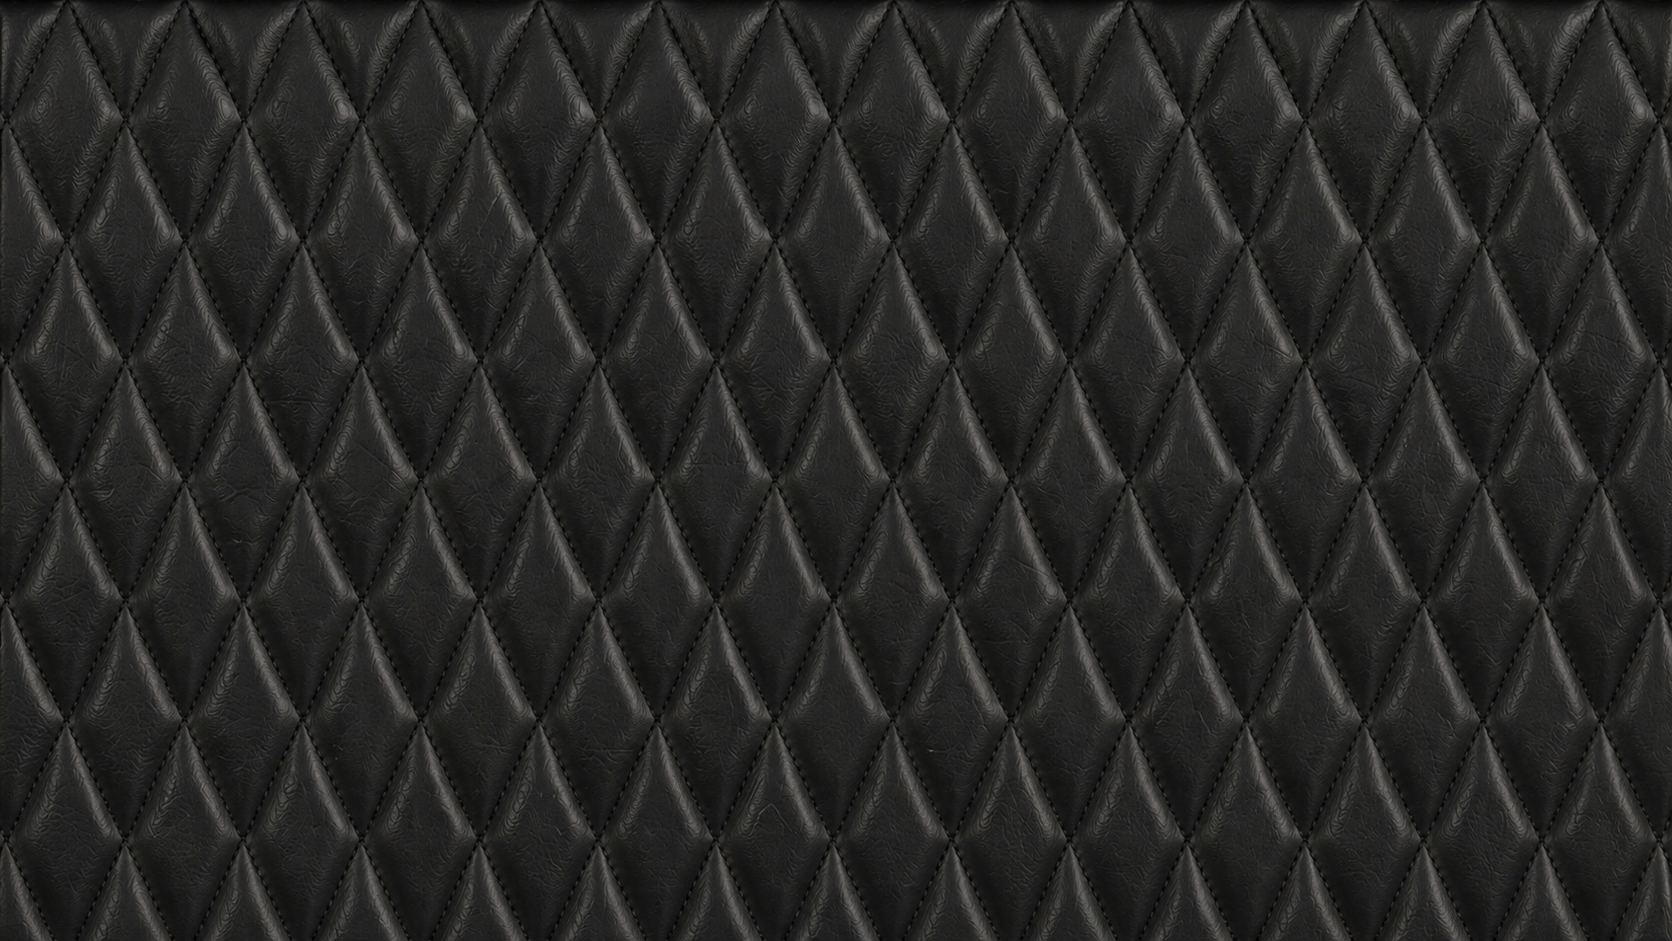
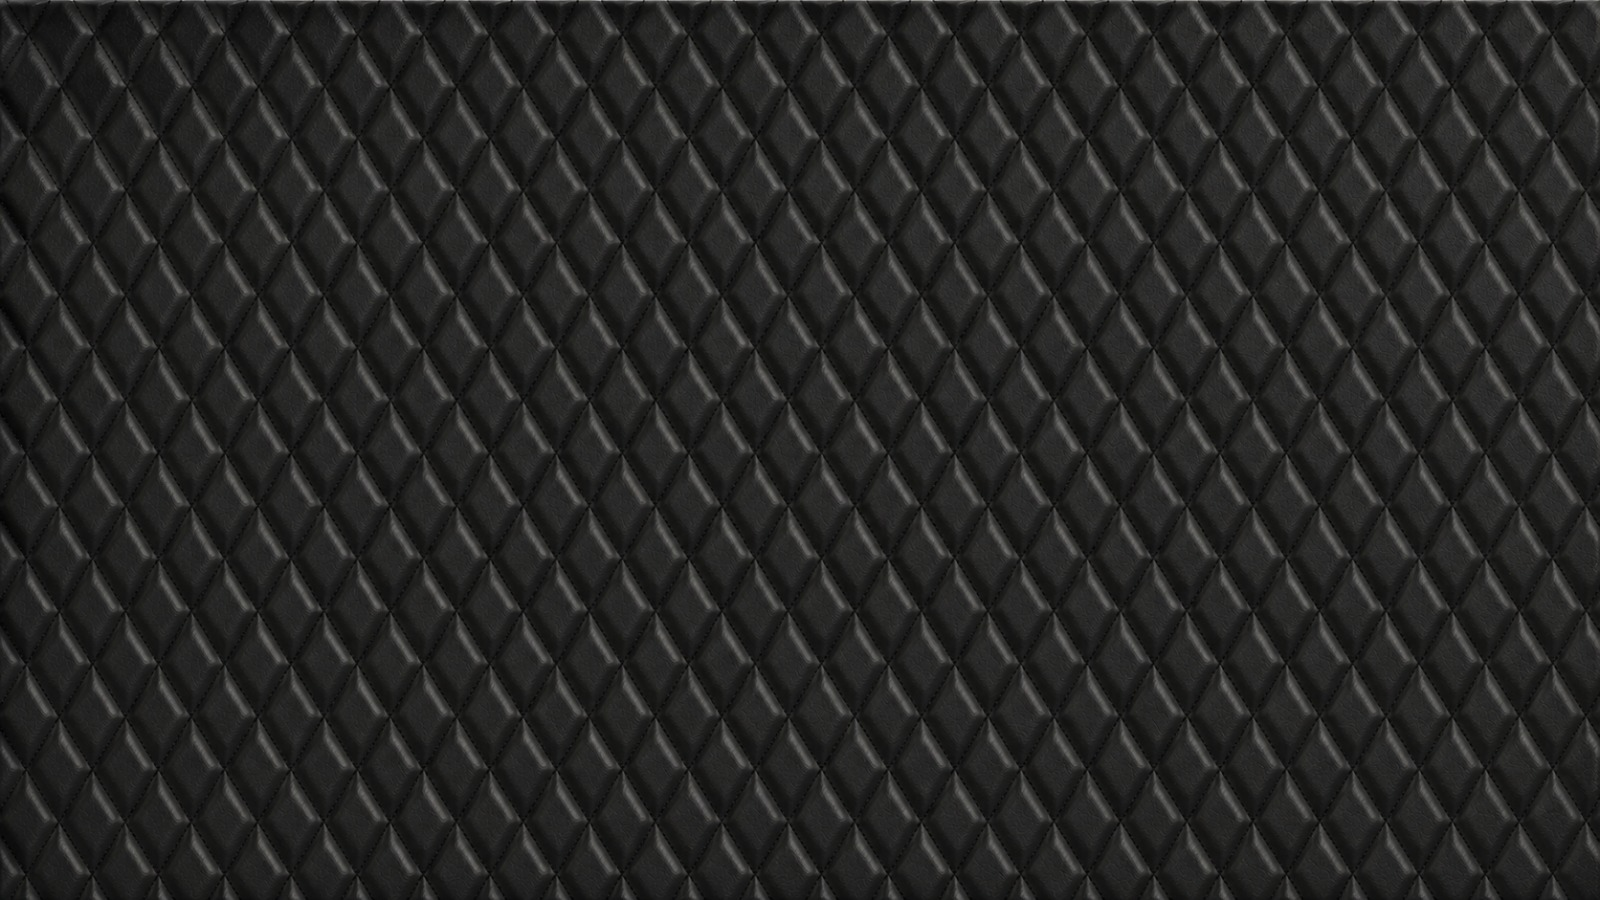
Add files via upload

Changed region(s): [[0.0, 0.0, 1.0, 1.0]]

diff --git a/style.css b/style.css
@@ -1,6 +1,7 @@
 /* ============================================
    SUBE CANAL — sistema de diseño
-   Tipografía: Anton (títulos y cuerpo, única familia del sitio)
+   Tipografía: Anton (títulos) + Roboto (cuerpo, con pesos
+   400/500/700 para generar contraste y mejorar legibilidad)
    Paleta: negro cuero #0b0b0b, verde lima #c1ff00, blanco #f5f5f0
    Concepto: el pasaje de transporte / boleto como
    metáfora de pertenecer a la comunidad de Sube Canal.
@@ -13,6 +14,7 @@
   font-style: normal;
   font-display: swap;
 }
+@import url('https://fonts.googleapis.com/css2?family=Roboto:wght@400;500;700&display=swap');
 
 :root{
   --black: #0b0b0b;
@@ -28,7 +30,7 @@
   --ticket-notch: 22px;
   --max: 1160px;
   --ff-display: 'Anton', sans-serif;
-  --ff-body: 'Anton', sans-serif;
+  --ff-body: 'Roboto', sans-serif;
 }
 
 *{ box-sizing: border-box; min-width: 0; }
@@ -89,7 +91,7 @@ a{ color: inherit; text-decoration: none; }
 
 .eyebrow{
   font-family: var(--ff-body);
-  font-weight: 400;
+  font-weight: 700;
   text-transform: uppercase;
   letter-spacing: 0.16em;
   font-size: 0.75rem;
@@ -126,7 +128,7 @@ a:focus-visible, button:focus-visible{
   display:flex;
   align-items:center;
   gap: 32px;
-  font-weight: 400;
+  font-weight: 500;
   font-size: 0.92rem;
 }
 .nav-links a{ opacity: 0.85; transition: opacity .2s, color .2s; }
@@ -206,7 +208,7 @@ a:focus-visible, button:focus-visible{
   gap: 8px;
   padding: 15px 28px;
   border-radius: 999px;
-  font-weight: 400;
+  font-weight: 700;
   font-size: 0.95rem;
   text-transform: uppercase;
   letter-spacing: 0.02em;
@@ -260,7 +262,7 @@ a:focus-visible, button:focus-visible{
   border-top: 2px dashed var(--card-border);
   margin: 20px 0;
 }
-.ticket-label{ font-size: 0.66rem; text-transform: uppercase; letter-spacing: 0.1em; color: var(--grey-dim); font-weight: 400; }
+.ticket-label{ font-size: 0.66rem; text-transform: uppercase; letter-spacing: 0.1em; color: var(--grey-dim); font-weight: 700; }
 .ticket-value{
   font-family: var(--ff-display);
   font-weight: 400;
@@ -323,7 +325,7 @@ section{ padding: 88px 0; }
 .benefit-top{ display:flex; align-items:center; gap: 14px; }
 .benefit-logo{
   width: 68px; height: 68px;
-  border-radius: 14px;
+  border-radius: 50%;
   background: var(--black-soft);
   overflow:hidden;
   flex-shrink:0;
@@ -338,7 +340,7 @@ section{ padding: 88px 0; }
   font-size: 1.5rem;
 }
 .benefit-name{ font-family: var(--ff-display); font-weight: 400; font-size: 1.05rem; text-transform: none; }
-.benefit-cat{ color: var(--grey-dim); font-size: 0.78rem; text-transform: uppercase; letter-spacing: 0.06em; margin-top: 2px; }
+.benefit-cat{ color: var(--grey-dim); font-size: 0.78rem; font-weight: 500; text-transform: uppercase; letter-spacing: 0.06em; margin-top: 2px; }
 .benefit-perks{ list-style:none; margin:0; padding:0; display:flex; flex-direction:column; gap: 8px; }
 .benefit-perks li{
   font-size: 0.92rem;
@@ -355,7 +357,7 @@ section{ padding: 88px 0; }
   transform: rotate(45deg);
 }
 .benefit-foot{ margin-top: auto; padding-top: 8px; border-top: 1px solid var(--card-border); display:flex; justify-content: space-between; align-items:center; }
-.benefit-ig{ font-size: 0.85rem; font-weight: 400; color: var(--grey); display:flex; align-items:center; gap:6px; transition: color .2s; }
+.benefit-ig{ font-size: 0.85rem; font-weight: 500; color: var(--grey); display:flex; align-items:center; gap:6px; transition: color .2s; }
 .benefit-ig:hover{ color: var(--lime); }
 
 @media (max-width: 980px){
@@ -388,12 +390,12 @@ section{ padding: 88px 0; }
 .plan-tag{
   position:absolute; top:-13px; left: 28px;
   background: var(--lime); color: var(--black);
-  font-size: 0.7rem; font-weight: 400; text-transform: uppercase;
+  font-size: 0.7rem; font-weight: 700; text-transform: uppercase;
   letter-spacing: 0.06em; padding: 5px 12px; border-radius: 999px;
 }
-.plan h3{ font-size: 1.05rem; text-transform: none; color: var(--grey); font-family: var(--ff-body); font-weight: 400; }
+.plan h3{ font-size: 1.05rem; text-transform: none; color: var(--grey); font-family: var(--ff-body); font-weight: 500; }
 .plan .price{ font-family: var(--ff-display); font-size: 2.4rem; margin-top: 14px; color: var(--white); }
-.plan .price span{ font-size: 0.95rem; color: var(--grey-dim); font-family: var(--ff-body); font-weight: 400; text-transform: none; }
+.plan .price span{ font-size: 0.95rem; color: var(--grey-dim); font-family: var(--ff-body); font-weight: 500; text-transform: none; }
 .plan p.desc{ color: var(--grey); margin-top: 12px; font-size: 0.92rem; flex-grow: 1; }
 .plan .btn{ margin-top: 24px; justify-content:center; width: 100%; }
 
@@ -433,7 +435,7 @@ footer .brand img{ height: 20px; opacity: 0.9; }
   align-items:center;
   gap: 8px;
   font-size: 0.85rem;
-  font-weight: 400;
+  font-weight: 500;
   color: var(--grey);
   transition: color .2s;
 }
@@ -484,6 +486,27 @@ footer .brand img{ height: 20px; opacity: 0.9; }
   border: 1px dashed rgba(193,255,0,0.3);
   border-radius: 10px;
   padding: 12px 14px;
+}
+
+.email-help-steps{
+  list-style: none;
+  margin: 0 0 22px;
+  padding: 0;
+  display: grid;
+  grid-template-columns: repeat(2, minmax(0, 1fr));
+  gap: 20px;
+}
+.email-help-steps li{ margin: 0; }
+.email-help-steps p{ margin: 0 0 10px; color: var(--white); font-size: 0.9rem; }
+.email-help-steps strong{ color: var(--lime); }
+.email-help-steps img{
+  width: 100%;
+  border-radius: 12px;
+  border: 1px solid var(--card-border);
+}
+
+@media (max-width: 640px){
+  .email-help-steps{ grid-template-columns: 1fr; }
 }
 
 /* ---------- Secciones "próximamente" ---------- */

diff --git a/index.html b/index.html
@@ -34,7 +34,7 @@
   <section class="hero">
     <div class="wrap">
       <div>
-        <h1>Subite a este <span class="accent">viaje colectivo</span>.</h1>
+        <h1>Subite a este<br><span class="accent">viaje colectivo</span></h1>
         <div class="hero-sub">
           <p>SUBE es un medio de comunicación independiente y autogestivo hecho en La Plata. Creamos contenidos, generamos encuentros y construimos comunidad alrededor de la cultura local.</p>
           <p>La Comunidad de Pasajerxs sostiene SUBE todos los meses. Sumándote, vos también sos parte y accedés a beneficios en una red de espacios amigos.</p>
@@ -304,24 +304,21 @@
           <svg class="chevron" viewBox="0 0 24 24" width="18" height="18" fill="none" stroke="currentColor" stroke-width="2" aria-hidden="true"><path d="M6 9l6 6 6-6"></path></svg>
         </summary>
         <div class="email-help-body">
-          <p>
-            <!-- TODO: confirmar/editar este texto con Sube Canal -->
-            Si te suscribiste con un mail y ahora querés usar otro, completá este formulario
-            y el equipo lo actualiza a mano.
-          </p>
-          <ol>
-            <li>Entrá al formulario y completá tu nombre, el mail viejo y el mail nuevo.</li>
-            <li>Adjuntá una captura del comprobante de la suscripción en Mercado Pago.</li>
-            <li>En un plazo de unos días vas a recibir la confirmación por mail.</li>
+          <p>Primero necesitamos que confirmes cuál es el mail con el que te suscribiste en Mercado Pago:</p>
+
+          <ol class="email-help-steps">
+            <li>
+              <p><strong>Paso 1.</strong> Ingresá a tu App de Mercado Pago y tocá arriba en donde dice tu nombre.</p>
+              <img src="assets/ayuda/cambio_1.jpeg" alt="Pantalla de Mercado Pago mostrando 'Hola, Nahuel' arriba a la izquierda" loading="lazy">
+            </li>
+            <li>
+              <p><strong>Paso 2.</strong> Se te va a desplegar esta parte, donde aparece tu mail registrado.</p>
+              <img src="assets/ayuda/cambio_2.jpeg" alt="Panel desplegado de Mercado Pago mostrando el mail registrado de la cuenta" loading="lazy">
+            </li>
           </ol>
-          <a class="btn btn-ghost" href="#" target="_blank" rel="noopener">
-            <!-- TODO: reemplazar "#" por el link real al Google Form -->
-            Ir al formulario
-          </a>
-          <p class="email-help-note">
-            ⚠ Falta cargar acá el link al Google Form y las capturas de ejemplo — avisame el
-            link y las imágenes y lo termino de dejar listo.
-          </p>
+
+          <p>Una vez que ya sabés cuál es el correo que usás en Mercado Pago, completá el siguiente formulario:</p>
+          <a class="btn btn-ghost" href="https://forms.gle/WpfyhGHWxJVBs8xD9" target="_blank" rel="noopener">Ir al formulario</a>
         </div>
       </details>
 
